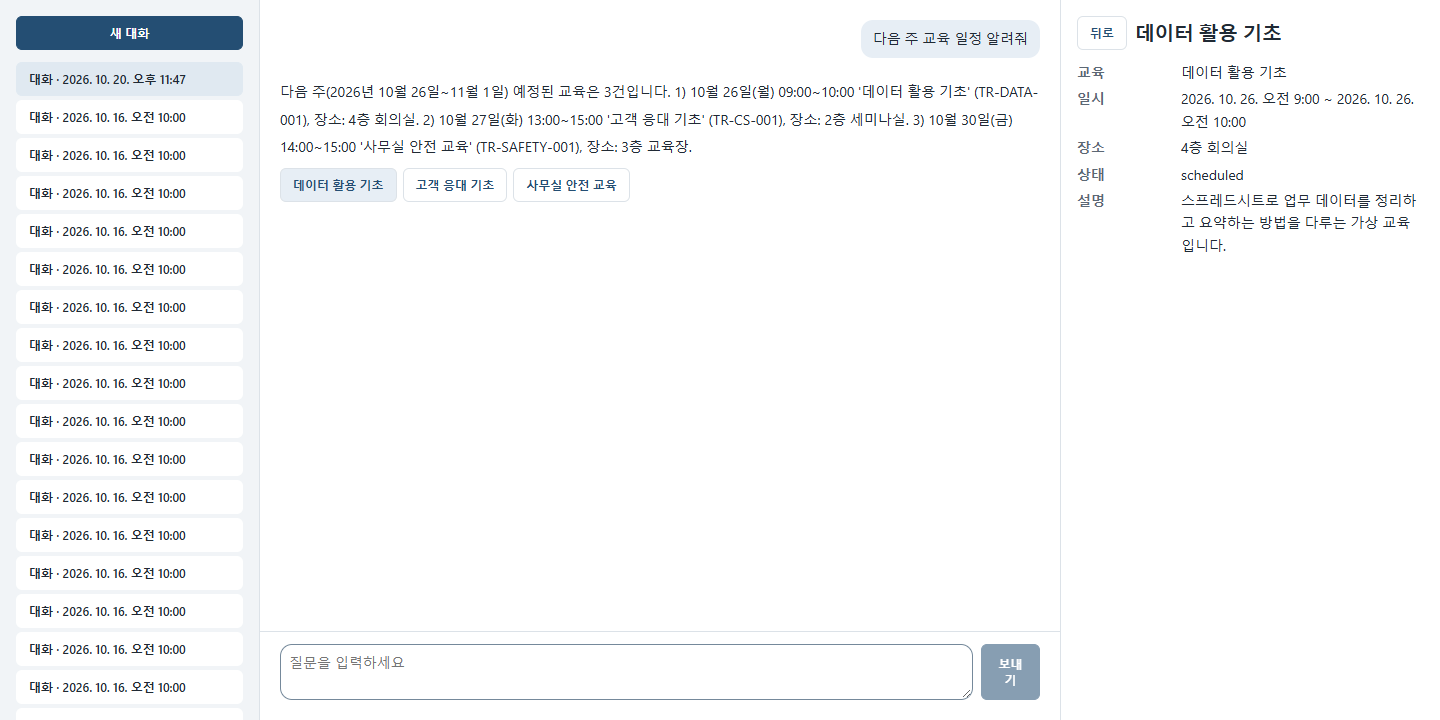
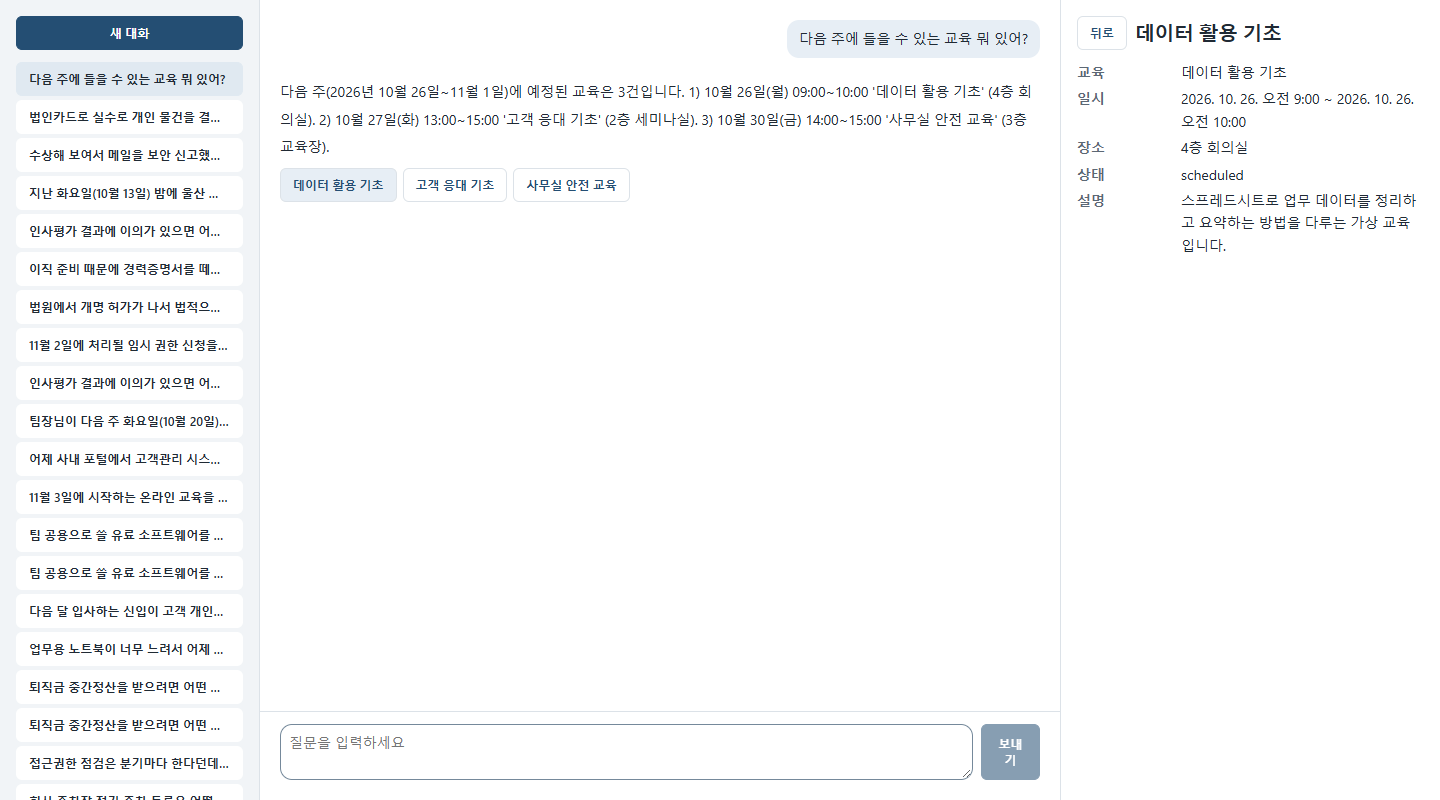
대화 목록에 첫 질문을 이름으로 보이고 README 화면을 다시 찍는다
- 제목 없는 대화는 첫 사용자 질문 앞 40자를 목록·상세 title로 낸다(D-74, 저장하지 않는 표시 값)
- 화면: 첫 답 뒤 목록을 다시 읽고, 긴 이름은 한 줄 말줄임과 툴팁
- README 군더더기 문장을 빼고 화면 3장을 실제 Haiku로 다시 찍었다

diff --git a/frontend/src/Workspace.tsx b/frontend/src/Workspace.tsx
@@ -98,6 +98,7 @@ export function Workspace({ session, onLogout, onExpired }: { session: SessionIn
     setStage(null);
     try {
       let conversationId = current;
+      const created = !conversationId;
       if (!conversationId) {
         conversationId = (await api.createConversation()).data.id;
         shown.current = conversationId;
@@ -115,6 +116,7 @@ export function Workspace({ session, onLogout, onExpired }: { session: SessionIn
       );
       pending.current = null;
       setDraft("");
+      if (created) void loadConversations(); // 첫 질문이 대화 이름이 되므로 목록을 다시 읽는다
       if (shown.current === conversationId) {
         setMessages((previous) => [...previous, ...fromResult(result, content)]);
         setAnnounce("새 답변이 도착했습니다.");
@@ -178,7 +180,7 @@ export function Workspace({ session, onLogout, onExpired }: { session: SessionIn
           {conversations.map((c) => (
             <li key={c.id}>
               <button type="button" className={c.id === current ? "selected" : "plain"} aria-current={c.id === current}
-                data-id={c.id} disabled={busy} onClick={() => open(c.id)}>
+                data-id={c.id} disabled={busy} onClick={() => open(c.id)} title={c.title ?? undefined}>
                 {c.title ?? `대화 · ${formatTime(c.created_at)}`}
               </button>
             </li>

diff --git a/frontend/src/styles.css b/frontend/src/styles.css
@@ -70,7 +70,9 @@ label { display: grid; gap: 4px; font: 600 13px var(--font); }
 .workspace.with-detail { grid-template-columns: 260px 1fr 380px; }
 .menu-toggle { display: none; }
 .sidebar { background: var(--navigation); border-right: 1px solid var(--line); padding: 16px; display: flex; flex-direction: column; gap: 12px; overflow-y: auto; }
-.sidebar ul { list-style: none; margin: 0; padding: 0; display: grid; gap: 4px; flex: 1; align-content: start; }
+.sidebar ul { list-style: none; margin: 0; padding: 0; display: grid; grid-template-columns: minmax(0, 1fr); gap: 4px; flex: 1; align-content: start; }
+.sidebar li { min-width: 0; }
+.sidebar li button { width: 100%; text-align: left; white-space: nowrap; overflow: hidden; text-overflow: ellipsis; }
 .me { display: flex; justify-content: space-between; align-items: center; gap: 8px; color: var(--muted); }
 
 .conversation { display: flex; flex-direction: column; min-width: 0; height: 100vh; }

diff --git a/backend/src/agent/modules/conversation/service.py b/backend/src/agent/modules/conversation/service.py
@@ -99,6 +99,30 @@ class _Accepted:
     retrieval: RetrievalContext = RetrievalContext()
 
 
+_TITLE_CHARS = 40
+
+
+def _first_question():
+    """대화의 첫 사용자 질문(제목이 없을 때 목록에 보일 이름). 사용자 질문은 가리지 않는다."""
+    return (
+        select(messages.c.content)
+        .where(messages.c.conversation_id == conversations.c.id, messages.c.role == "user")
+        .order_by(messages.c.seq)
+        .limit(1)
+        .scalar_subquery()
+    )
+
+
+def _display_title(title: str | None, first_question: str | None) -> str | None:
+    """정한 제목이 없으면 첫 질문 앞부분을 쓴다. 질문도 없으면 None(화면이 생성 시각으로 표시)."""
+    if title:
+        return title
+    if not first_question:
+        return None
+    text_ = " ".join(first_question.split())
+    return text_ if len(text_) <= _TITLE_CHARS else text_[:_TITLE_CHARS].rstrip() + "…"
+
+
 def _iso(value: datetime | None) -> str | None:
     """응답 시각은 모두 KST 오프셋으로 낸다. DB에서 읽은 값은 세션 시간대(UTC)라 바꿔야 한다."""
     return value.astimezone(KST).isoformat() if value else None
@@ -224,7 +248,7 @@ class ConversationService:
             total = await conn.scalar(select(func.count()).select_from(conversations).where(owned))
             rows = (
                 await conn.execute(
-                    select(conversations)
+                    select(conversations, _first_question().label("first_question"))
                     .where(owned)
                     .order_by(conversations.c.created_at.desc(), conversations.c.id)
                     .limit(limit)
@@ -234,7 +258,7 @@ class ConversationService:
         items = [
             {
                 "id": str(r.id),
-                "title": r.title,
+                "title": _display_title(r.title, r.first_question),
                 "created_at": _iso(r.created_at),
                 "active_run_id": str(r.active_run_id) if r.active_run_id else None,
             }
@@ -253,9 +277,13 @@ class ConversationService:
         await self.recover_expired(conversation_id=conversation_id)
         async with self._read() as conn:
             row = await self._owned(conn, actor, conversation_id)
+            first_question = None
+            if not row.title:
+                query = select(_first_question()).where(conversations.c.id == row.id)
+                first_question = await conn.scalar(query)
         return {
             "id": str(row.id),
-            "title": row.title,
+            "title": _display_title(row.title, first_question),
             "created_at": _iso(row.created_at),
             "active_run_id": str(row.active_run_id) if row.active_run_id else None,
         }

diff --git a/backend/tests/test_conversation.py b/backend/tests/test_conversation.py
@@ -496,3 +496,24 @@ async def test_all_response_times_use_kst_and_list_shows_active_run(seeded_engin
         run["finished_at"],
     ):
         assert value.endswith("+09:00"), value
+
+
+async def test_untitled_conversation_is_listed_by_first_question(seeded_engine, migrated):
+    question = "다음 주   교육 알려줘. 신입사원 교육이랑 협업 도구 교육 중 무엇을 먼저 들어야 하나요"
+    model = FakeModelClient(NEXT_WEEK * 3)
+    async with api_client(_app(migrated, model)) as client:
+        untitled = (await client.post("/api/v1/conversations", headers={"Origin": ORIGIN})).json()
+        assert untitled["title"] is None
+        empty = (await client.get(f"/api/v1/conversations/{untitled['id']}")).json()
+        assert empty["title"] is None  # 질문이 없으면 화면이 생성 시각으로 표시한다
+
+        titled = await _new_conversation(client)
+        await _post(client, titled, "다른 질문")
+        await _post(client, untitled["id"], question)
+        await _post(client, untitled["id"], "두 번째 질문은 이름에 쓰지 않는다")
+
+        items = {c["id"]: c for c in (await client.get("/api/v1/conversations")).json()["items"]}
+        fetched = (await client.get(f"/api/v1/conversations/{untitled['id']}")).json()
+    expected = " ".join(question.split())[:40].rstrip() + "…"
+    assert items[untitled["id"]]["title"] == expected == fetched["title"]
+    assert items[titled]["title"] == "테스트"  # 정한 제목은 그대로

diff --git a/docs/10-decisions-and-open-questions.md b/docs/10-decisions-and-open-questions.md
@@ -79,6 +79,7 @@
 | D-71 | search_documents 결과의 모델 보기에 `deadline_hints`를 붙인다(MOD-02 `agent_runtime/deadlines.py`). 예산 안에 들어간 원문 passage에서 영업일 기한 문장(기준이 있는 "…부터·로부터·후·뒤·이후 N영업일", "N영업일 전", "다음 달·익월 N영업일", "다음 영업일", "전 영업일까지"; 기준 없는 "P3 1영업일"·"첫 N영업일"·"휴일이면 다음 영업일"은 제외)을 찾고, 사용자 메시지(이번 메시지, 모델에 보낸 이력 창의 본인 메시지를 최근 것부터)의 날짜를 기준일 후보(최대 4개, 연도 있는 날짜·"오늘" 등은 그대로, 월·일만 있으면 날짜 뒤 말의 시제로 _infer_year 규칙, 범위의 같은 달 끝 날짜 포함, 이력의 상대 날짜·분수 제외)로 D-69와 같은 함수·공휴일표로 마감일을 계산한다. 기한마다 citation_id·version·as_of_date·원문 조각(rule)·N·direction, 기준일마다 base_date·base_quote(그 날짜를 말한 문구)·deadline·요일·건너뛴 공휴일을 주고, 기한은 최대 6개. 계산표는 원문 근거 예산 밖이다. 프롬프트 m7-answer-6 규칙 21: 직접 세지 않고 계산표에서 base_quote·version을 보고 맞는 짝을 골라 쓰며, 맞는 짝이 없을 때만 계산 도구를 부른다. 평가: holdout3는 이 변경의 근거(영업일 오답 분석)에 썼으므로 참고값이며, 효과는 새 검증셋으로 잰다 | holdout3 실측(보고서 9.10): 영업일 문항 10개 중 계산 도구를 부른 문항 1개. 사용자 요청("영업일 기한을 서버가 자동 계산해 붙이기"), 세부값은 D-41 진행 규칙으로 추천안 채택. 독립 검증(2026-10-20) 반영: 시제 무시 연도("1월 5일에 복귀했어요"→2027), 기준일 출처·범위 끝 날짜, 판본 표지, 분수 날짜, 이력 순서, 줄바꿈으로 잘린 기한, "오후"·마감 이월 오탐, 한 문장 두 기한의 조각. API 호출 없이 시험·변이 시험으로 확인. [P-28](15-policy-options.md#p-28) B |
 | D-72 | 원문 검색 설정 `raw-exact-cosine-v2`(v1 `raw-exact-cosine-v1`): 후보 passage 20→40, 거리 순 그대로. MOD-02 예산: 검색 한 번은 실행 근거 예산(동결 4000)의 0.75까지만 새로 쓴다(대표 그룹은 예외로 전체 예산 안이면 넣는다, 다음 검색에 1000을 남긴다). 몫 때문에 덜 넣은 하위 후보는 evidence_budget_exceeded로 표시하지 않는다. 모델 인자 top_k 상한 20→40. 평가 결과 config에 retriever_config_id를 남기고 설정이 다른 결과 파일에는 이어 쓰지 않는다. 처음 커밋(6db8175)은 문서 다양성 순서(문서당 앞 4그룹)와 몫 0.5였으나, 모델을 뺀 검색 단계 비교(복수 문서 113문항, 같은 질의·같은 DB, 첫 검색의 예산 안 정답 근거 재현율)에서 v1 0.843 대비 0.815(좋아짐 9·나빠짐 20)로 나빠 고쳤다: 후보 40·거리 순·몫 없음 0.904(22·0), 몫 0.75 0.892(18·0), 몫 0.5 0.866(9·0), 다양성은 몫이 없으면 거리 순과 같고 몫과 함께면 해롭다. 주의: v1·v2의 Recall@pool·found_not_packed·hard negative in context는 후보 수가 달라 직접 비교하지 않는다. A/B 비교(docs/13)는 A만 이 설정을 쓰므로 비대칭이다(Wiki는 사용자 지시로 범위 밖) | holdout3 개선 후 실측: 복수 문서 문항에서 모델에 넘어간 원문 평균 1,652 token(예산의 41%), 후보 상한 20. 사용자 요청("복수 문서 질문의 검색 재현율", "과금해도 되니 조금만 쓰고 확실히 확인"), 세부값은 위 측정으로 정함. 독립 검증(저장된 질의 벡터 1,044개 모의): 몫이 없으면 첫 검색이 예산 중앙값 3,283 token을 써 다음 검색의 65%가 잘림. holdout4 전후 실행(D-73)은 모델 흔들림이 커 검색 효과를 가르지 못했다(보고서 9.12). [P-29](15-policy-options.md#p-29) B |
 | D-73 | D-72의 효과는 새 복수 문서 확인셋 holdout4(`eval/cases/holdout4.jsonl`, 20문항)로 개선 전(D-72 이전 코드: fd53a3d + holdout4 실행 지원 커밋)·후를 같은 문항·같은 DB·동결 예산 4000으로 한 번씩 돌려 짝으로 본다. 주 지표는 정답 근거가 모델 문맥에 들어갔는지(규칙 채점 evidence_in_context·recall_budget)이고, 정답률(규칙·judge)도 함께 본다. 실행은 과금(사용자 승인: "마지막엔 과금해도 되니 조금만 쓰고 확실히 확인해라") | holdout3는 D-72 실패 분석에 썼다(D-62·D-70과 같은 근거) |
+| D-74 | 대화 목록·상세의 title은 저장된 제목이 없으면 첫 사용자 질문(공백 정리, 40자 넘으면 자르고 …)으로 서버가 만든다. 저장하지 않는 표시 값이라 기존 대화에도 그대로 적용되고, 질문이 없는 빈 대화는 null(화면은 생성 시각 표시). 화면은 한 줄 말줄임과 전체 이름 툴팁 | 사용자 요청(2026-10-21): "대화 · 시각"만 줄지어 보여 구분이 안 된다 |
 
 ## 초기 기본 정책 — 설정으로 명시
 

diff --git a/README.md b/README.md
@@ -18,8 +18,6 @@
 
 ## 화면
 
-아래 화면은 개발 DB(문서 100개 게시)에 실제 Claude Haiku 5.5를 붙여 2026-10-20에 찍었습니다. 화면의 답은 손대지 않은 실제 실행 결과입니다.
-
 **규정 질문.** 답 아래에 근거 원문이 판본·쪽과 함께 붙고, 누르면 오른쪽에 원문 구간과 적용 기준일이 열립니다.
 
 ![규정 질문과 근거 원문](docs/images/screen-citation.png)
@@ -36,7 +34,7 @@
 
 ![아키텍처](docs/images/architecture.png)
 
-> 원본: [docs/diagrams/architecture.drawio](docs/diagrams/architecture.drawio) (draw.io에서 열어 고칠 수 있습니다)
+> draw.io 원본: [architecture.drawio](docs/diagrams/architecture.drawio)
 
 - 서버 하나(FastAPI, 비동기) 안을 업무 단위로 나눴고, 모듈끼리 import 방향은 시험(`tests/test_module_boundaries.py`)으로 막아 둡니다.
 - 모델이 직접 DB나 외부 시스템을 건드리는 길은 없습니다. 모델이 할 수 있는 건 등록된 도구 7개(교육 조회 2, 문서 검색, 영업일 계산, 티켓 조회 2, 티켓 초안 준비)를 부르는 것뿐이고, 도구 입력은 스키마로 검사한 뒤 서버가 실행합니다.
@@ -46,7 +44,7 @@
 
 ![요청 흐름](docs/images/request-flow.png)
 
-> 원본: [docs/diagrams/request-flow.drawio](docs/diagrams/request-flow.drawio)
+> draw.io 원본: [request-flow.drawio](docs/diagrams/request-flow.drawio)
 
 1. 요청마다 멱등키를 받습니다. 응답이 중간에 끊겨 같은 키로 다시 보내면 새로 실행하지 않고 같은 실행의 결과를 돌려줍니다.
 2. 문서 검색은 사용자 권한으로 먼저 거르고, pgvector 거리 순으로 후보 40개를 뽑은 뒤, 문맥 예산(4,000 token) 안에 조항 묶음 단위로 담습니다. 첫 검색이 예산을 다 쓰지 않도록 75%까지만 씁니다.
@@ -79,7 +77,7 @@
 
 ## 실험
 
-모든 수치는 실제로 돌려서 잰 값입니다. 규칙 채점은 필수 사실·인용·결과 유형(답/보류/되묻기)으로 매기고, 따로 Gemini 3.8 Flash가 답을 보고 정답·부분·오답을 판정했습니다(judge). 한 번 오답 분석에 쓴 평가셋은 개선 비교에 다시 쓰지 않고, 그때마다 새 검증셋을 만들었습니다. 자세한 기록은 [최종 평가 보고서](docs/report/final-evaluation.md)에 있습니다.
+규칙 채점은 필수 사실·인용·결과 유형(답/보류/되묻기)으로 매기고, 따로 Gemini 3.8 Flash가 답을 보고 정답·부분·오답을 판정했습니다(judge). 한 번 오답 분석에 쓴 평가셋은 개선 비교에 다시 쓰지 않고, 그때마다 새 검증셋을 만들었습니다. 자세한 기록은 [최종 평가 보고서](docs/report/final-evaluation.md)에 있습니다.
 
 ### 1. 어떤 방식으로 원문을 찾을까 (holdout 100문항)
 

diff --git a/docs/04-api-spec.md b/docs/04-api-spec.md
@@ -38,8 +38,8 @@
 | Method·경로 | 입력 | 반환 |
 |---|---|---|
 | POST `/conversations` | title?(1~100자) | 201 id/title/created_at, 검색 전략은 서버 설정 |
-| GET `/conversations` | limit1~50=20, offset>=0 | 200 items/total/limit/offset/has_more, 본인만 |
-| GET `/conversations/{id}` | 소유 ID | 200 표시 정보·active_run_id |
+| GET `/conversations` | limit1~50=20, offset>=0 | 200 items/total/limit/offset/has_more, 본인만. 제목이 없으면 title은 첫 사용자 질문(공백 정리, 40자 넘으면 자르고 …), 질문도 없으면 null |
+| GET `/conversations/{id}` | 소유 ID | 200 표시 정보(title은 목록과 같은 규칙)·active_run_id |
 | GET `/conversations/{id}/messages` | limit1~50=20, offset>=0 | 200 items/total/limit/offset/has_more, 현재 권한 재검증 후 가림 |
 | POST `/conversations/{id}/messages` | content(1~4000자, 공백만이면 422(D-44)), UUID Idempotency-Key header | 최초 동기 완료200, 동일 요청 실행 중 replay202, 유효한 다른 실행 중409 |
 | GET `/runs/{id}` | 본인 run ID | 만료 회수·현재 가시성 재검증 후200 상태·outcome·시간·usage·도구 안전 요약 |

diff --git a/docs/modules/MOD-01-conversation.md b/docs/modules/MOD-01-conversation.md
@@ -59,5 +59,6 @@ CP-07 ConversationEvidenceReader 구현을 소유한다. ReadUserEvidence는 본
 
 ## 구현 메모(M4 검색 전략, 2026-10-18)
 
+- 목록·상세의 title은 저장된 제목이 없으면 첫 사용자 질문 앞 40자로 만든다(저장하지 않는 표시 값, 사용자 질문은 가리지 않으므로 권한 재검증 대상이 아니다).
 - `create_conversation(actor, title, server_options=ServerOptions(strategy, strict))`. 직원 HTTP는 server_options를 넘기지 않는다(본문의 strategy 같은 값은 무시). 평가 포트(APP-04)만 raw/wiki_assisted·엄격 모드를 고른다. `conversations.retrieval_strict` 칸.
 - run 수락 때 corpus snapshot과(B 대화면) Wiki snapshot을 고정해 `agent_runs.retrieval_context`(strategy·wiki_snapshot_id·strict)에 남긴다. 실행 도중 새 Wiki가 게시돼도 그 run은 바뀌지 않는다(T-27).
